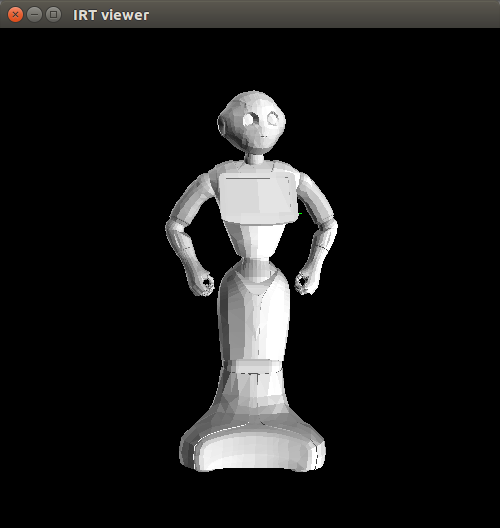
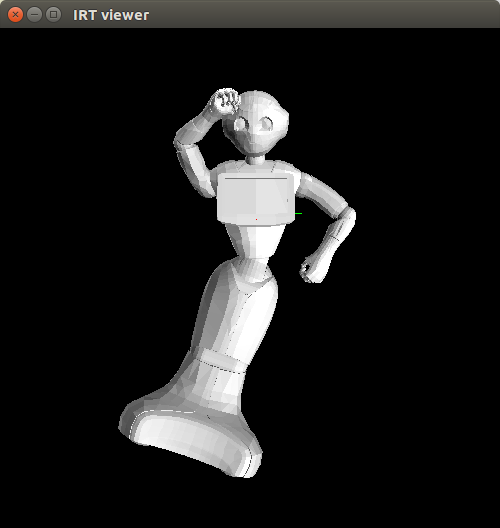
add images

Changed region(s): [[0.24, 0.1515, 0.72, 0.9091], [0.99, 0.0, 1.0, 0.0303]]

diff --git a/jsk_naoqi_robot/peppereus/README.md b/jsk_naoqi_robot/peppereus/README.md
@@ -114,9 +114,17 @@ They are defined in `pepper.yaml`.
 
 ![](doc/img/greeting-pose.png)
 
+`:look-foot`
+
+![](doc/img/look-foot.png)
+
 `:nodding-pose`
 
 ![](doc/img/nodding-pose.png)
+
+`:ok-pose`
+
+![](doc/img/ok-pose.png)
 
 `:pointing-left-pose`
 
@@ -146,6 +154,18 @@ They are defined in `pepper.yaml`.
 
 ![](doc/img/reset-pose.png)
 
+`:show-bottom-camera`
+
+![](doc/img/show-bottom-camera.png)
+
+`:show-head`
+
+![](doc/img/show-head.png)
+
+`:show-top-camera`
+
+![](doc/img/show-top-camera.png)
+
 `:spread-hands-smally`
 
 ![](doc/img/spread-hands-smally.png)
@@ -153,6 +173,14 @@ They are defined in `pepper.yaml`.
 `:spread-hands-widely`
 
 ![](doc/img/spread-hands-widely.png)
+
+`:touch-speakers`
+
+![](doc/img/touch-speakers.png)
+
+`:watching-pose`
+
+![](doc/img/watching-pose.png)
 
 `:wondering-pose`
 
